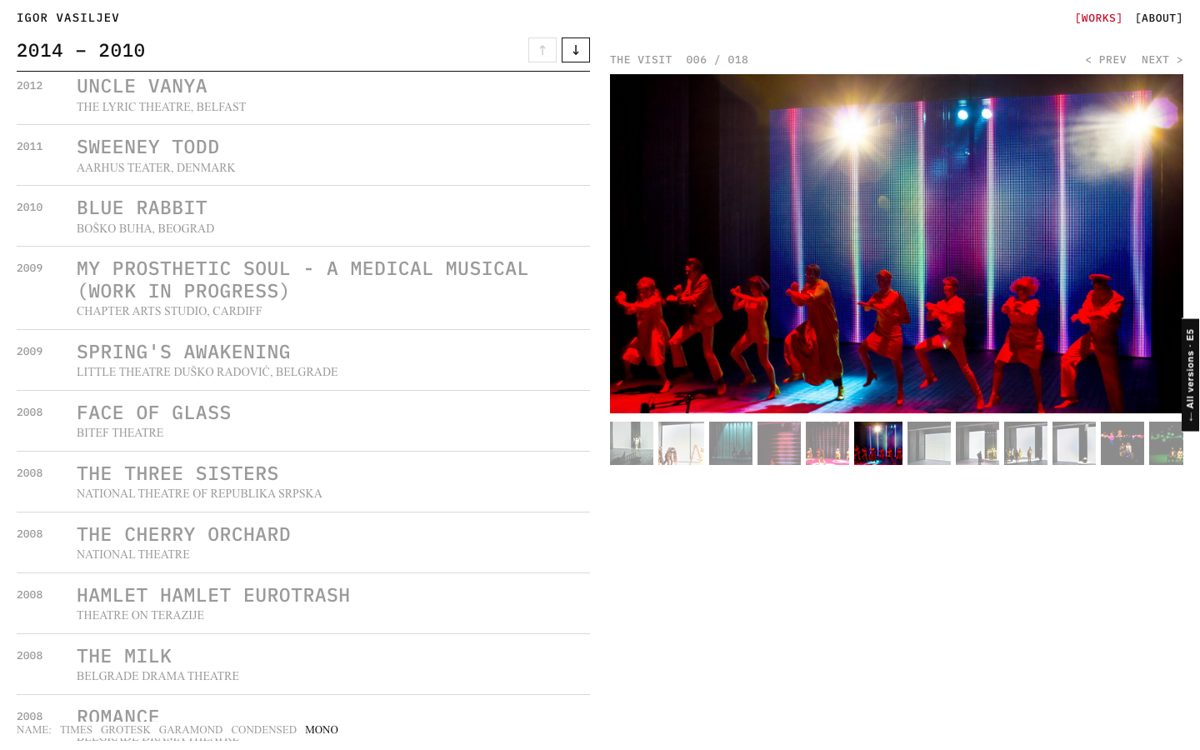
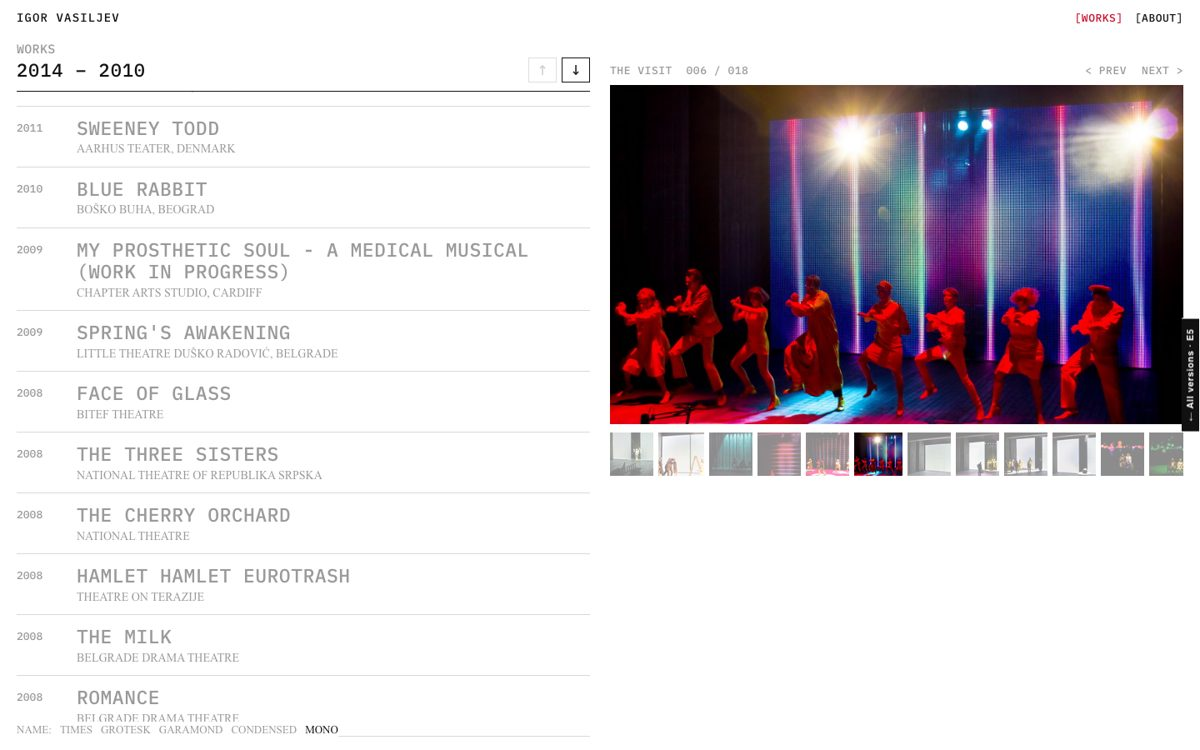
All works: sticky Works label above the period bar
On scroll, Works shrinks to a small label and stays on top with the period bar
right under it, so the periods read as periods of works.

diff --git a/prototypes/direction-e5-works/app.js b/prototypes/direction-e5-works/app.js
@@ -70,7 +70,7 @@
   }
 
   function home() {
-    main.appendChild(el('<h1 class="title">Works</h1>'));
+    main.appendChild(el('<h1 class="title works-title">Works</h1>'));
     split(W.map(function (w) { return { w: w, img: lead(w) }; }));
   }
 
@@ -214,7 +214,7 @@
       var a = el('<a href="#' + p.id + '">' + p.firstChild.textContent.replace(' – ', '–') + '</a>');
       a.addEventListener('click', function (e) {
         e.preventDefault();
-        var pb = document.querySelector('.pbar'); window.scrollTo({ top: p.getBoundingClientRect().top + scrollY - top.offsetHeight - (pb ? pb.offsetHeight : 0) - 4, behavior: 'smooth' });
+        var pb = document.querySelector('.pbar'), th = parseFloat(getComputedStyle(document.documentElement).getPropertyValue('--title-h')) || 0; window.scrollTo({ top: p.getBoundingClientRect().top + scrollY - top.offsetHeight - th - (pb ? pb.offsetHeight : 0) - 4, behavior: 'smooth' });
       });
       bar.appendChild(a);
     });
@@ -237,6 +237,11 @@
     ol.insertBefore(bar, ol.firstChild);
     var lbl = bar.querySelector('.lbl'), back = bar.querySelector('[data-go="-1"]'), next = bar.querySelector('[data-go="1"]'), cur = 0;
     function sync() { document.documentElement.style.setProperty('--top-h', top.offsetHeight + 'px'); }
+    // "Works" shrinks once the page scrolls and stays stuck above the bar (its small height: --title-h in CSS)
+    var title = document.querySelector('.works-title');
+    function titleH() { return parseFloat(getComputedStyle(document.documentElement).getPropertyValue('--title-h')) || 0; }
+    function shrink() { title.classList.toggle('small', scrollY > 24); }
+    addEventListener('scroll', shrink, { passive: true }); shrink();
     function mark() {
       var line = bar.getBoundingClientRect().bottom + 12, k = 0;
       rows.forEach(function (r) { if (r.getBoundingClientRect().top <= line) k = names.indexOf(r.dataset.p); });
@@ -246,7 +251,7 @@
       var b = e.target.closest('[data-go]'); if (!b) return;
       var p = names[cur + +b.dataset.go]; if (!p) return;
       var first = rows.filter(function (r) { return r.dataset.p === p; })[0];
-      var to = cur + +b.dataset.go === 0 ? 0 : first.getBoundingClientRect().top + scrollY - top.offsetHeight - bar.offsetHeight;
+      var to = cur + +b.dataset.go === 0 ? 0 : first.getBoundingClientRect().top + scrollY - top.offsetHeight - titleH() - bar.offsetHeight;
       window.scrollTo({ top: to, behavior: 'smooth' });
     });
     sync(); addEventListener('resize', sync);

diff --git a/prototypes/direction-e5-works/style.css b/prototypes/direction-e5-works/style.css
@@ -342,7 +342,7 @@ h1.title + .split, h1.title + .strip-wrap { padding-top: 28px; }
 
 /* ---- E5: one sticky period bar with back / next arrows ---- */
 .sel li.period { height: 0; padding: 0; margin: 0; border: 0; overflow: hidden; }   /* invisible jump anchors */
-.sel li.pbar { position: sticky; top: var(--top-h, 44px); z-index: 3; background: var(--bg); display: flex; justify-content: space-between; align-items: center; padding: 0 0 10px; border-bottom: 1px solid var(--fg); font-size: clamp(26px, 2.6vw, 36px); line-height: 1; }
+.sel li.pbar { position: sticky; top: calc(var(--top-h, 44px) + var(--title-h)); z-index: 3; background: var(--bg); display: flex; justify-content: space-between; align-items: center; padding: 0 0 10px; border-bottom: 1px solid var(--fg); font-size: clamp(26px, 2.6vw, 36px); line-height: 1; }
 [data-name="5"] .sel li.pbar { font: 500 clamp(18px, 1.6vw, 22px)/1 "IBM Plex Mono", monospace; letter-spacing: .04em; }
 .sel .go { display: flex; gap: 6px; }
 .sel .go button { font: 400 22px/1 var(--serif); background: none; border: 1px solid var(--fg); color: var(--fg); width: 34px; height: 30px; cursor: pointer; display: flex; align-items: center; justify-content: center; }
@@ -352,3 +352,15 @@ h1.title + .split, h1.title + .strip-wrap { padding-top: 28px; }
 @media (max-width: 760px) {
   .sel li.pbar { padding-top: 8px; margin-bottom: 20px; }
 }
+
+/* "Works": full size at the top; once scrolled it shrinks to a small label and stays stuck above the period bar */
+:root { --title-h: 34px; }
+h1.works-title { position: sticky; top: var(--top-h, 44px); z-index: 4; background: var(--bg); transition: font-size .25s ease, padding .25s ease; }
+[data-name="5"] h1.works-title { padding-bottom: 12px; }
+h1.works-title.small, [data-name="5"] h1.works-title.small { font-size: 15px; line-height: 1; padding-top: 8px; padding-bottom: 11px; height: var(--title-h); color: var(--dim); }
+.view { top: calc(var(--top-h, 44px) + var(--title-h) + 8px); }
+/* period bar closer to the Works label */
+:root { --title-h: 24px; }
+h1.works-title.small, [data-name="5"] h1.works-title.small { padding-top: 6px; padding-bottom: 3px; }
+h1.works-title + .split { padding-top: 6px; }
+[data-name="5"] h1.works-title { padding-bottom: 0; }
